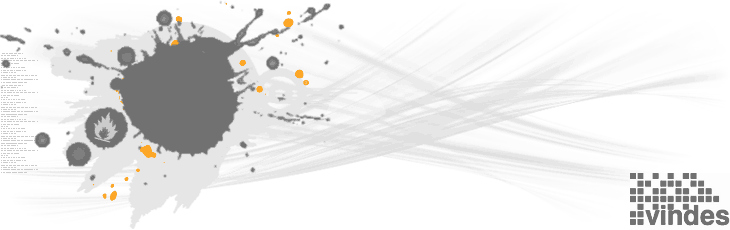
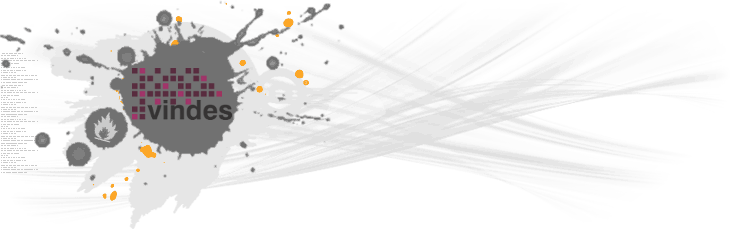
1. Se ajusto el diseño de la imagen de cabecera 2. Se agrego los conocimientos técnicos en la pagina.

Changed region(s): [[0.8438, 0.7304, 1.0, 1.0], [0.1808, 0.2739, 0.3315, 0.5174]]

diff --git a/index.html b/index.html
@@ -93,10 +93,10 @@
       	<div class="span10">
 		<a href="index.html"><img src="img/hdvindes.png" alt="Vindes"></a>
 	</div>
-      </div>	
+      </div>
       <div class="row">
         <div class="span10">
-          <div class="row"">            
+          <div class="row"">
             <div class="span8 offset2">
               <div id="myCarousel" class="carousel slide">
                 <div class="carousel-inner">
@@ -154,7 +154,7 @@
           <p><a class="btn" href="#">View details &raquo;</a></p>
         </div>
         <span id="left"></span>
-        <span id="right"></span>        
+        <span id="right"></span>
       </div>
       <a >
       <div class="row">
@@ -180,6 +180,28 @@
                   <br/>
                   +58-426 594 0458
                 </address>
+              </span>
+            </div>
+          </div>
+        </div>
+        <div class="span4 offset4">
+          <h2><a name="#">Sabemos...</a></h2>
+          <div class="row">
+            <div class="span2">
+              <span>
+              Ruby, JS, HTML5, CSS3
+              <br/>
+              C#
+              <br/>
+              Java
+            </div>
+            <div class="span2">
+              <span>
+                  Rails, JQuery
+                  <br/>
+                  .NET
+                  <br/>
+                  JEE
               </span>
             </div>
           </div>
